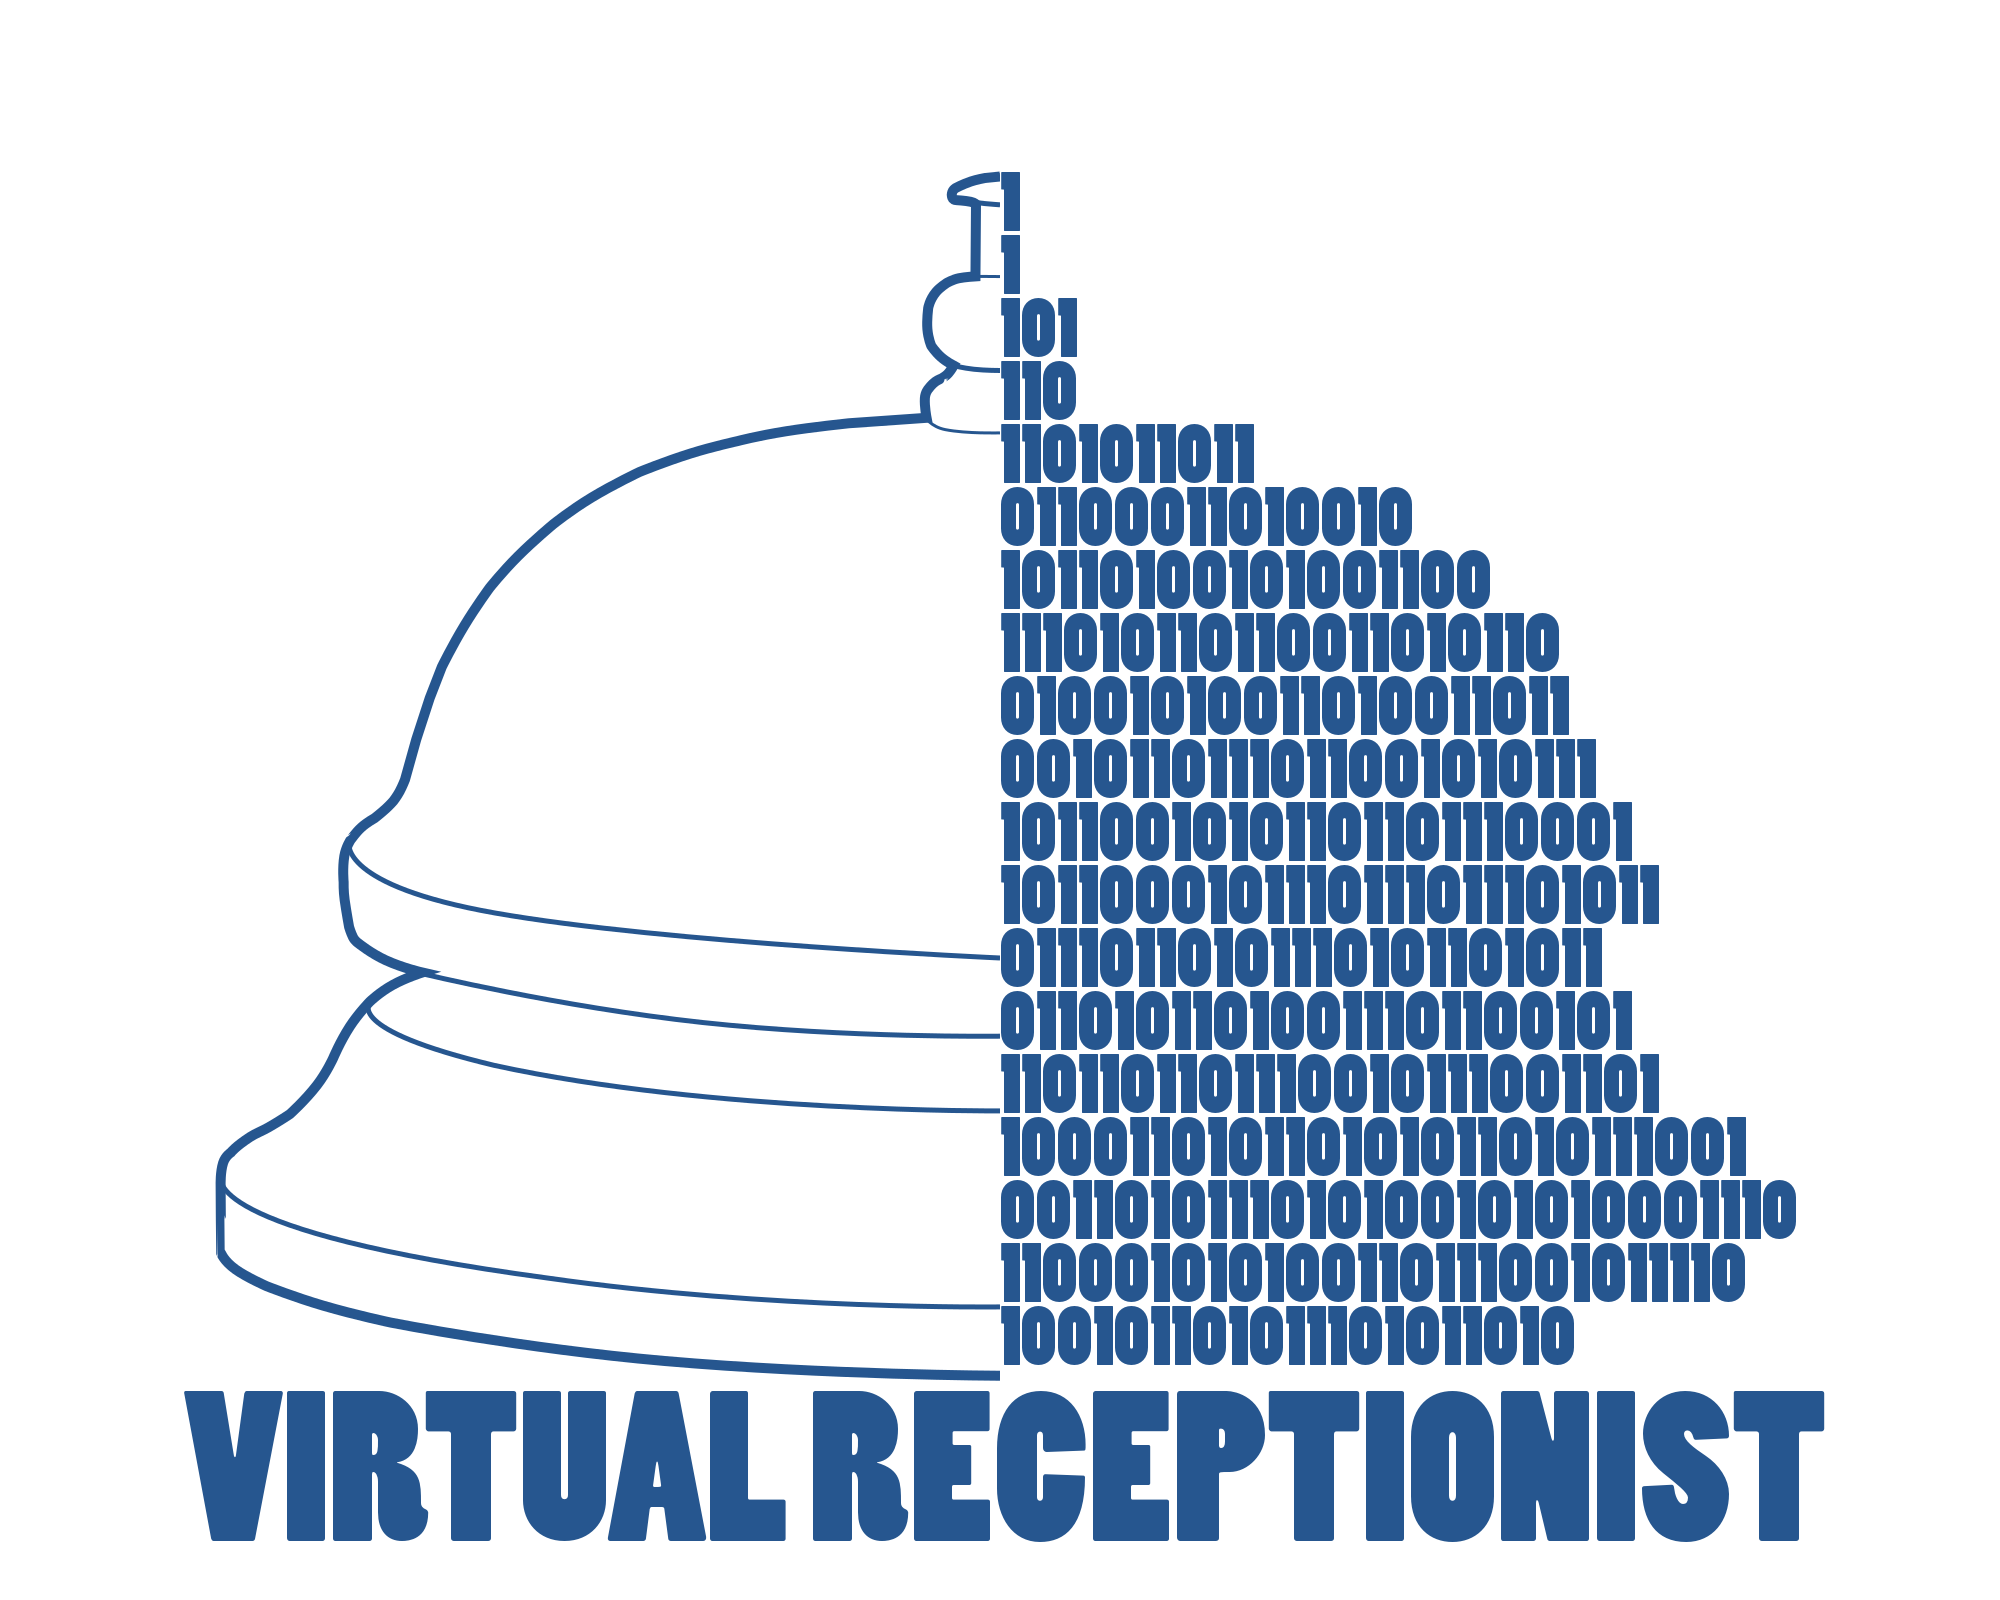
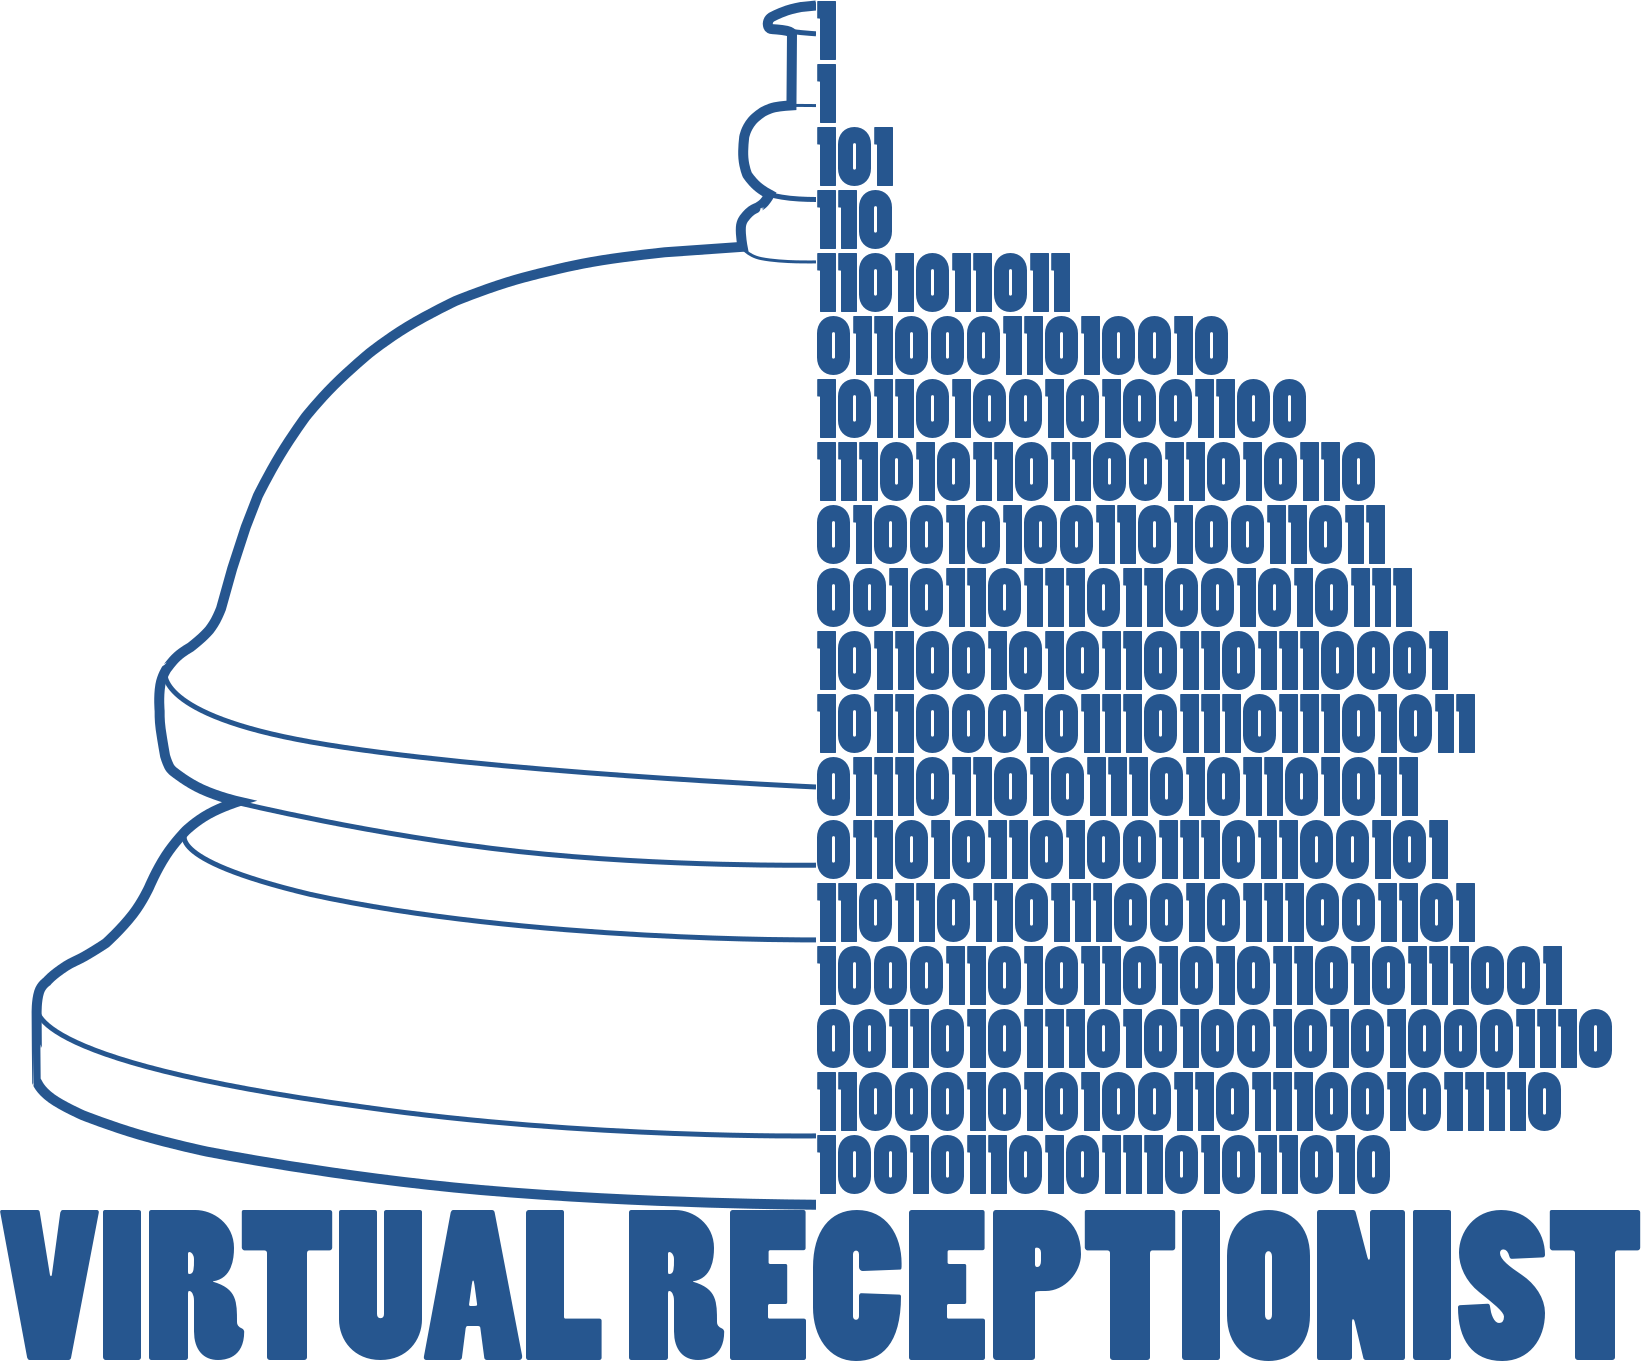
error kép csere.

diff --git a/templates/logged_out.html b/templates/logged_out.html
@@ -1,7 +1,6 @@
 <div id="content">
-    <div class="jumbotron">
-        <div class="container-fluid">
-            <a href="index.php"><h1 class="text-center">A kért tartalom eléréséhez jelentkezzen be!</h1></a>     
-        </div>
+    <div class="container">
+        <img id="logo" src="../img/virtual_receptionist_error.png" alt="error"/>
     </div>
+    <a href="index.php"><h1 class="text-center">Hoppá!<br>Úgy tűnik nem vagy bejelentkezve!</h1></a>     
 </div>

diff --git a/templates/head.html b/templates/head.html
@@ -6,4 +6,4 @@
 <script src="../js/bootstrap.min.js" type="text/javascript"></script>
 <link rel="stylesheet" type="text/css" href="../css/main.css"/>
 <script src="../js/main.js" type="text/javascript"></script>
-<link rel="icon" href="../img/Icons/virtual_receptionist_icon.ico" type="image/x-icon"/>
+<link rel="icon" href="../img/virtual_receptionist_icon.ico" type="image/x-icon"/>

diff --git a/css/main.css b/css/main.css
@@ -63,7 +63,7 @@ a:visited, a:link, a:active{
 }
 #logo{
     margin: 0 auto;
-    width: 30%;
+    width: 25%;
     display: block;
     background-position: center center;
     padding-top: 20px;
